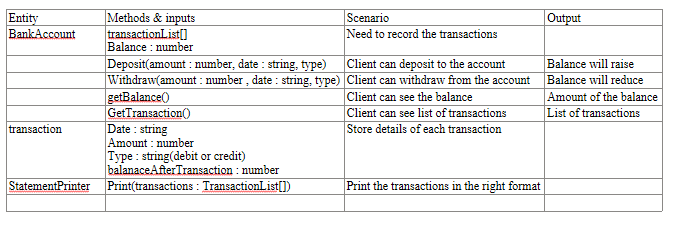
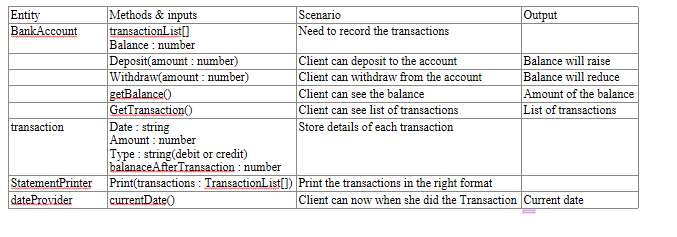
domain model updated

diff --git a/src/index.js b/src/index.js
@@ -3,12 +3,14 @@ import { TransactionsPrint } from "./transactions-print.js";
 
 const myBankAccount = new BankAccount
 const printer = new TransactionsPrint
-    myBankAccount.deposit(1000, '10-01-2012')
-    myBankAccount.deposit(500, '11-01-2012')
-    myBankAccount.deposit(500, '11-01-2012')
-    myBankAccount.withdraw(1500, '10-01-2012')
-    const myTransactions = myBankAccount.getTransactions
-    
+const thisDay = Date
 
-    console.log(printer.print(myTransactions))
-    // console.log(myBankAccount.getTransactions)
+myBankAccount.deposit(1000)
+myBankAccount.deposit(500)
+myBankAccount.deposit(500)
+myBankAccount.withdraw(1500)
+const myTransactions = myBankAccount.getTransactions
+
+
+console.log(printer.print(myTransactions))
+// console.log(myBankAccount.getTransactions)

diff --git a/src/bank-account.js b/src/bank-account.js
@@ -1,22 +1,24 @@
+import { DateProvider } from "./date.js"
 import { Transaction } from "./transaction.js"
 class BankAccount {
   constructor() {
     this.transaction = []
     this.balance = 0
+    this.date = new DateProvider
   }
 
   
-  deposit(amount, date) {
-    
+  deposit(amount) {
+    const date = this.date.currentDate()
     this.balance += amount
     this.transaction.push(new Transaction(amount, date, 'credit', this.balance))
   }
 
-  withdraw(amount, date) {
+  withdraw(amount) {
     if((this.balance - amount) < 0) {
       return 'You dont have enough money!'
     }
-    
+    const date = this.date.currentDate()
     this.balance -= amount
     this.transaction.push(new Transaction(amount, date, 'debit', this.balance))
   }
